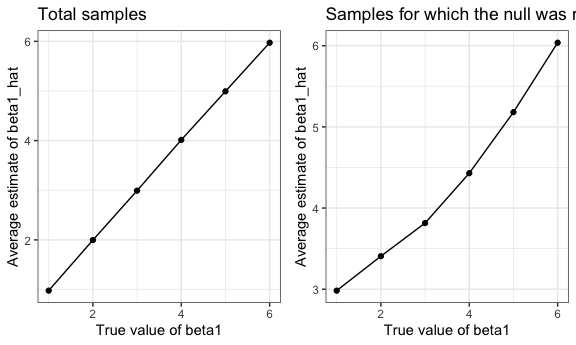
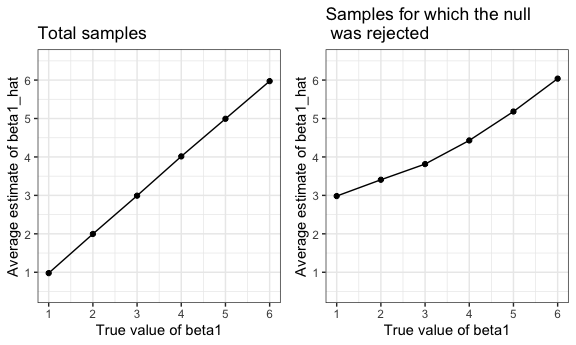
edit the answers

diff --git a/p8105_hw5_yl4358.md b/p8105_hw5_yl4358.md
@@ -29,22 +29,23 @@ for (i in 1:5) {
 
 final_iris = bind_cols(output_iris)
 final_iris %>% 
+ rename(Spepal.Length = V1, Spepal.Width = V2, Petal.Length = V3, Petal.Width = V4, Species = V5) %>% 
  head(10) %>% 
   knitr::kable(digits = 2) 
 ```
 
-|   V1 |  V2 |   V3 |   V4 | V5     |
-| ---: | --: | ---: | ---: | :----- |
-| 5.10 | 3.5 | 1.40 | 0.20 | setosa |
-| 4.90 | 3.0 | 1.40 | 0.20 | setosa |
-| 4.70 | 3.2 | 1.30 | 0.20 | setosa |
-| 4.60 | 3.1 | 1.50 | 1.19 | setosa |
-| 5.00 | 3.6 | 1.40 | 0.20 | setosa |
-| 5.40 | 3.9 | 1.70 | 0.40 | setosa |
-| 5.82 | 3.4 | 1.40 | 0.30 | setosa |
-| 5.00 | 3.4 | 1.50 | 0.20 | setosa |
-| 4.40 | 2.9 | 1.40 | 0.20 | setosa |
-| 4.90 | 3.1 | 3.77 | 0.10 | setosa |
+| Spepal.Length | Spepal.Width | Petal.Length | Petal.Width | Species |
+| ------------: | -----------: | -----------: | ----------: | :------ |
+|          5.10 |          3.5 |         1.40 |        0.20 | setosa  |
+|          4.90 |          3.0 |         1.40 |        0.20 | setosa  |
+|          4.70 |          3.2 |         1.30 |        0.20 | setosa  |
+|          4.60 |          3.1 |         1.50 |        1.19 | setosa  |
+|          5.00 |          3.6 |         1.40 |        0.20 | setosa  |
+|          5.40 |          3.9 |         1.70 |        0.40 | setosa  |
+|          5.82 |          3.4 |         1.40 |        0.30 | setosa  |
+|          5.00 |          3.4 |         1.50 |        0.20 | setosa  |
+|          4.40 |          2.9 |         1.40 |        0.20 | setosa  |
+|          4.90 |          3.1 |         3.77 |        0.10 | setosa  |
 
 ``` r
 output_iris_map = map_df(iris_with_missing, replace_iris_na)
@@ -89,6 +90,11 @@ long_df = tibble(
     names_to = "week",
     names_prefix = "week_",
     values_to = "observation"
+  ) %>% 
+  mutate(
+    arm = factor(arm),
+    subject_id = factor(subject_id),
+    week = factor(week, levels = c(1,2,3,4,5,6,7,8), ordered = TRUE)
   )
 ```
 
@@ -318,6 +324,25 @@ long_df = tibble(
 
 ``` r
 long_df %>% 
+ head(10) %>% 
+  knitr::kable() 
+```
+
+| arm     | subject\_id | week | observation |
+| :------ | :---------- | :--- | ----------: |
+| control | 01          | 1    |        0.20 |
+| control | 01          | 2    |      \-1.31 |
+| control | 01          | 3    |        0.66 |
+| control | 01          | 4    |        1.96 |
+| control | 01          | 5    |        0.23 |
+| control | 01          | 6    |        1.09 |
+| control | 01          | 7    |        0.05 |
+| control | 01          | 8    |        1.94 |
+| control | 02          | 1    |        1.13 |
+| control | 02          | 2    |      \-0.88 |
+
+``` r
+long_df %>% 
   group_by(arm,subject_id) %>% 
   ggplot(aes(x = week, y = observation, group = subject_id, color = subject_id)) +
   geom_line() +
@@ -430,7 +455,12 @@ avg_beta1_sim =
     title = "Total samples",
     x = "True value of beta1",
     y = "Average estimate of beta1_hat"
-     )
+     ) +
+ scale_x_continuous(
+    breaks = c(1, 2, 3, 4, 5, 6)) +
+ scale_y_continuous(
+    breaks = c(1, 2, 3, 4, 5, 6),
+    limits = c(0.5,6.5))
 
 avgrej_beta1_sim =
   sim_results %>% 
@@ -443,12 +473,22 @@ avgrej_beta1_sim =
   geom_point() +
   geom_line() +
     labs(
-    title = "Samples for which the null was rejected",
+    title = "Samples for which the null \n was rejected",
     x = "True value of beta1",
     y = "Average estimate of beta1_hat"
-     )
+     ) +
+ scale_x_continuous(
+    breaks = c(1, 2, 3, 4, 5, 6)) +
+ scale_y_continuous(
+    breaks = c(1, 2, 3, 4, 5, 6),
+    limits = c(0.5,6.5))
 
 avg_beta1_sim + avgrej_beta1_sim
 ```
 
 <img src="p8105_hw5_yl4358_files/figure-gfm/unnamed-chunk-5-1.png" width="90%" />
+
+  - The sample average of beta1\_hat across tests for which the null is
+    rejected is relatively higher that the true value of beta1. Because
+    the null hypothesis is rejected, which means beta1 doesn’t equal to
+    the true value.
